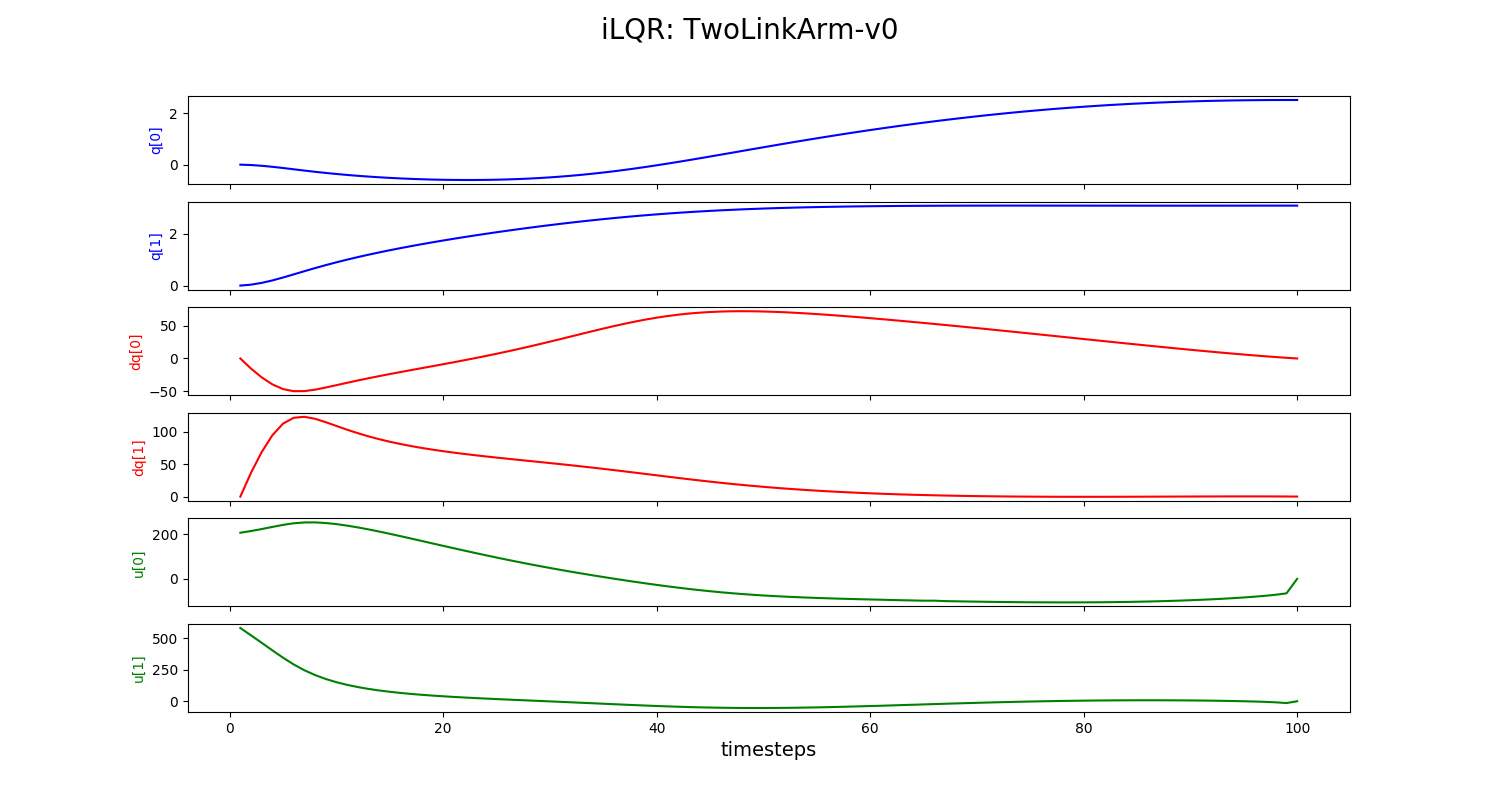
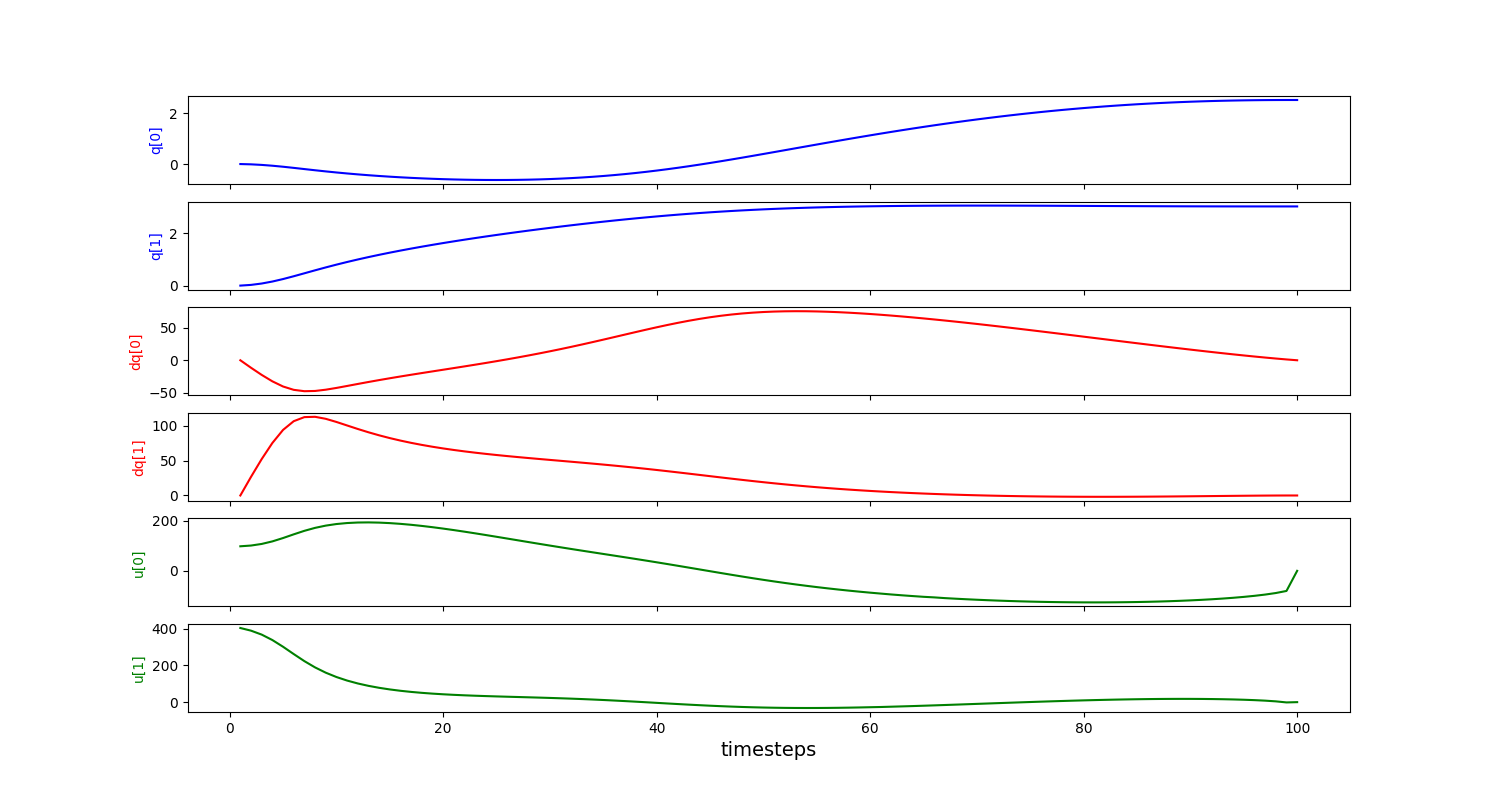
fix a small bug in iLQR for optimization

diff --git a/deeprl_hw3/mpc.py b/deeprl_hw3/mpc.py
@@ -28,14 +28,13 @@ def calc_mpc_input(env, sim_env, tN=50, max_iter=1000000):
     """
     U_mpc = np.zeros((tN, 2))
     X_mpc = np.zeros((tN, 4))
-    # reset for next iLQR iterative process
     env.reset()
     sim_env.reset()
 
     for t in range(tN):
         print("\n***Begin using iLQR to optimize for current timestep {}***\n".format(t))
-        # U, _, _, _ = ilqr.calc_ilqr_input(env, sim_env, tN, max_iter)
-        U, _, _, _ = ilqr_fast.calc_ilqr_input(env, sim_env, tN, max_iter)
+        U, _, _, _ = ilqr.calc_ilqr_input(env, sim_env, tN, max_iter)
+        # U, _, _, _ = ilqr_fast.calc_ilqr_input(env, sim_env, tN, max_iter)
 
         # update x_t and record u_t for next timestep's optimization
         current_x, _, _, _ = env.step(U[0])
@@ -73,22 +72,23 @@ def faster_calc_mpc_input(env, sim_env, tN=50, max_iter=1000000):
     """
     U_mpc = np.zeros((tN, 2))
     X_mpc = np.zeros((tN, 4))
-    # reset for next iLQR iterative process
     env.reset()
     sim_env.reset()
 
-    for t in range(2):
+    n_groups = 10
+    for t in range(n_groups):
         print("\n***Begin using iLQR to optimize for current timestep {}***\n".format(t))
         # U, _, _, _ = ilqr.calc_ilqr_input(env, sim_env, tN, max_iter)
         U, _, _, _ = ilqr_fast.calc_ilqr_input(env, sim_env, tN, max_iter)
+        # U, _, _, _ = ilqr.calc_ilqr_input(env, sim_env, tN, max_iter)
 
         # update x_t and record u_t for next timestep's optimization
-        for i in range(tN/2):
+        for i in range(tN/n_groups):
             current_x, _, _, _ = env.step(U[i])
             env.state = current_x
-            X_mpc[t * (tN/2) + i] = current_x
+            X_mpc[t * (tN/n_groups) + i] = current_x
 
         # update optimal control sequence at current timestep, discard the rest
-        U_mpc[t * (tN/2): (t+1) * (tN/2)] = U[:tN/2]
+        U_mpc[t * (tN/n_groups): (t+1) * (tN/n_groups)] = U[:tN/n_groups]
 
     return U_mpc, X_mpc

diff --git a/iLQR.py b/iLQR.py
@@ -13,7 +13,7 @@ def plot_states_and_control_ilqr(states=None, u=None, env_name=None):
     x = [i + 1 for i in range(len(states))]
 
     figure, (ax1, ax2, ax3, ax4, ax5, ax6) = plt.subplots(6, sharex=True, sharey=False)
-    figure.suptitle(env_name, fontsize=20)
+    # figure.suptitle(env_name, fontsize=20)
 
     ax1.plot(x, states[:, 0], color='b')
     ax1.set_ylabel("q[0]", color='b')
@@ -41,7 +41,7 @@ def plot_states_and_control_ilqr(states=None, u=None, env_name=None):
 def plot_costs_ilqr(costs=None, env_name=None):
     x = [i+1 for i in range(len(costs))]
     plt.plot(x, costs, color='r', marker='*', label='')
-    plt.title("iLQR: Training costs over timesteps for " + env_name, fontsize=20)
+    # plt.title("iLQR: Training costs over timesteps for " + env_name, fontsize=20)
     plt.xlabel("iterations", fontsize=14)
     plt.ylabel("cost values")
     plt.grid()
@@ -53,7 +53,7 @@ def plot_costs_ilqr(costs=None, env_name=None):
 def plot_rewards_ilqr(rewards=None, env_name=None):
     x = [i + 1 for i in range(len(rewards))]
     plt.plot(x, rewards, color='g', marker='*', label='')
-    plt.title("iLQR: Training rewards over timesteps for " + env_name, fontsize=20)
+    # plt.title("iLQR: Training rewards over timesteps for " + env_name, fontsize=20)
     plt.xlabel("iterations", fontsize=14)
     plt.ylabel("reward values")
     plt.grid()

diff --git a/iLQR_fast.py b/iLQR_fast.py
@@ -12,7 +12,7 @@ def plot_states_and_control_ilqr(states=None, u=None, env_name=None):
     x = [i + 1 for i in range(len(states))]
 
     figure, (ax1, ax2, ax3, ax4, ax5, ax6) = plt.subplots(6, sharex=True, sharey=False)
-    figure.suptitle(env_name, fontsize=20)
+    # figure.suptitle(env_name, fontsize=20)
 
     ax1.plot(x, states[:, 0], color='b')
     ax1.set_ylabel("q[0]", color='b')
@@ -40,7 +40,7 @@ def plot_states_and_control_ilqr(states=None, u=None, env_name=None):
 def plot_costs_ilqr(costs=None, env_name=None):
     x = [i+1 for i in range(len(costs))]
     plt.plot(x, costs, color='r', marker='*', label='')
-    plt.title("iLQR: Costs over timesteps for " + env_name, fontsize=20)
+    # plt.title("iLQR: Costs over timesteps for " + env_name, fontsize=20)
     plt.xlabel("iterations", fontsize=14)
     plt.ylabel("cost values")
     plt.grid()
@@ -52,7 +52,7 @@ def plot_costs_ilqr(costs=None, env_name=None):
 def plot_rewards_ilqr(rewards=None, env_name=None):
     x = [i + 1 for i in range(len(rewards))]
     plt.plot(x, rewards, color='g', marker='*', label='')
-    plt.title("iLQR: Training rewards over timesteps for " + env_name, fontsize=20)
+    # plt.title("iLQR: Training rewards over timesteps for " + env_name, fontsize=20)
     plt.xlabel("iterations", fontsize=14)
     plt.ylabel("reward values")
     plt.grid()

diff --git a/deeprl_hw3/ilqr.py b/deeprl_hw3/ilqr.py
@@ -166,7 +166,7 @@ def calc_ilqr_input(env, sim_env, tN=50, max_iter=1000000):
         current_x = x0.copy()
         for t in range(tN - 1):
             U_new[t] = U[t] + k[t] + np.dot(K[t], current_x - X[t])
-            current_x = simulate_dynamics_next(env, current_x, U_new[t])
+            current_x = simulate_dynamics_next(sim_env, current_x, U_new[t])
 
         # collect monitoring data
         # env.render()  # optionally can render during training
@@ -195,12 +195,12 @@ def calc_ilqr_input(env, sim_env, tN=50, max_iter=1000000):
         # collect stats
         rewards.append(reward)
 
-        if np.sum(np.square(env.goal - x_next)) <= 1e-2:
-            print("***Close enough to goal, stopping now!***")
+        if np.sum(np.square(env.goal - x_next)) <= 1e-3:
+            print("***Close enough to goal, stopping now at iteration {}!***".format(i))
             break
 
     # We change this API so that plotting will be in our driver "iLQR.py"
-    # just besides U, we output plotting statistics
+    # just besides U, we output plotting statistics+
     return U, X, costs, rewards
 
 

diff --git a/MPC.py b/MPC.py
@@ -12,7 +12,7 @@ def plot_states_and_control_ilqr(states=None, u=None, env_name=None):
     x = [i + 1 for i in range(len(states))]
 
     figure, (ax1, ax2, ax3, ax4, ax5, ax6) = plt.subplots(6, sharex=True, sharey=False)
-    figure.suptitle(env_name, fontsize=20)
+    # figure.suptitle(env_name, fontsize=20)
 
     ax1.plot(x, states[:, 0], color='b')
     ax1.set_ylabel("q[0]", color='b')
@@ -34,7 +34,7 @@ def plot_states_and_control_ilqr(states=None, u=None, env_name=None):
     ax6.set_xlabel("timesteps", fontsize=14)
 
     plt.savefig(env_name + ".png")
-    plt.show()
+    # plt.show()
 
 
 def show_optimal_trajectory(env, U):
@@ -46,6 +46,7 @@ def show_optimal_trajectory(env, U):
         time.sleep(0.1)
         reward += r
     return reward
+
 
 def control_ilqr(env_name="TwoLinkArm-v0"):
 

diff --git a/deeprl_hw3/ilqr_fast.py b/deeprl_hw3/ilqr_fast.py
@@ -58,7 +58,7 @@ def cost_inter(env, x, u):
     l = np.sum(np.square(u))
 
     # adding regularization term
-    l += 10**4 * np.sum(np.square(x - env.goal))
+    # l += 10**4 * np.sum(np.square(x - env.goal))
 
     # derivatives w.r.t x are all Zeros
     l_x = np.zeros(x.shape[0])
@@ -171,7 +171,7 @@ def calc_ilqr_input(env, sim_env, tN=50, max_iter=1000000):
         current_x = x0.copy()
         for t in range(tN - 1):
             U_new[t] = U[t] + k[t] + np.dot(K[t], current_x - X[t])
-            current_x = simulate_dynamics_next(env, current_x, U_new[t])
+            current_x = simulate_dynamics_next(sim_env, current_x, U_new[t])
 
         # collect monitoring data
         # env.render()  # optionally can render during training

diff --git a/LQR.py b/LQR.py
@@ -20,7 +20,7 @@ def plot_states_and_control(states=None, u=None, env_name=None):
     x = [i + 1 for i in range(len(states))]
 
     figure, (ax1, ax2, ax3, ax4, ax5, ax6) = plt.subplots(6, sharex=True, sharey=False)
-    figure.suptitle(env_name, fontsize=20)
+    # figure.suptitle(env_name, fontsize=20)
 
     ax1.plot(x, states[:, 0], color='b')
     ax1.set_ylabel("q[0]", color='b')
